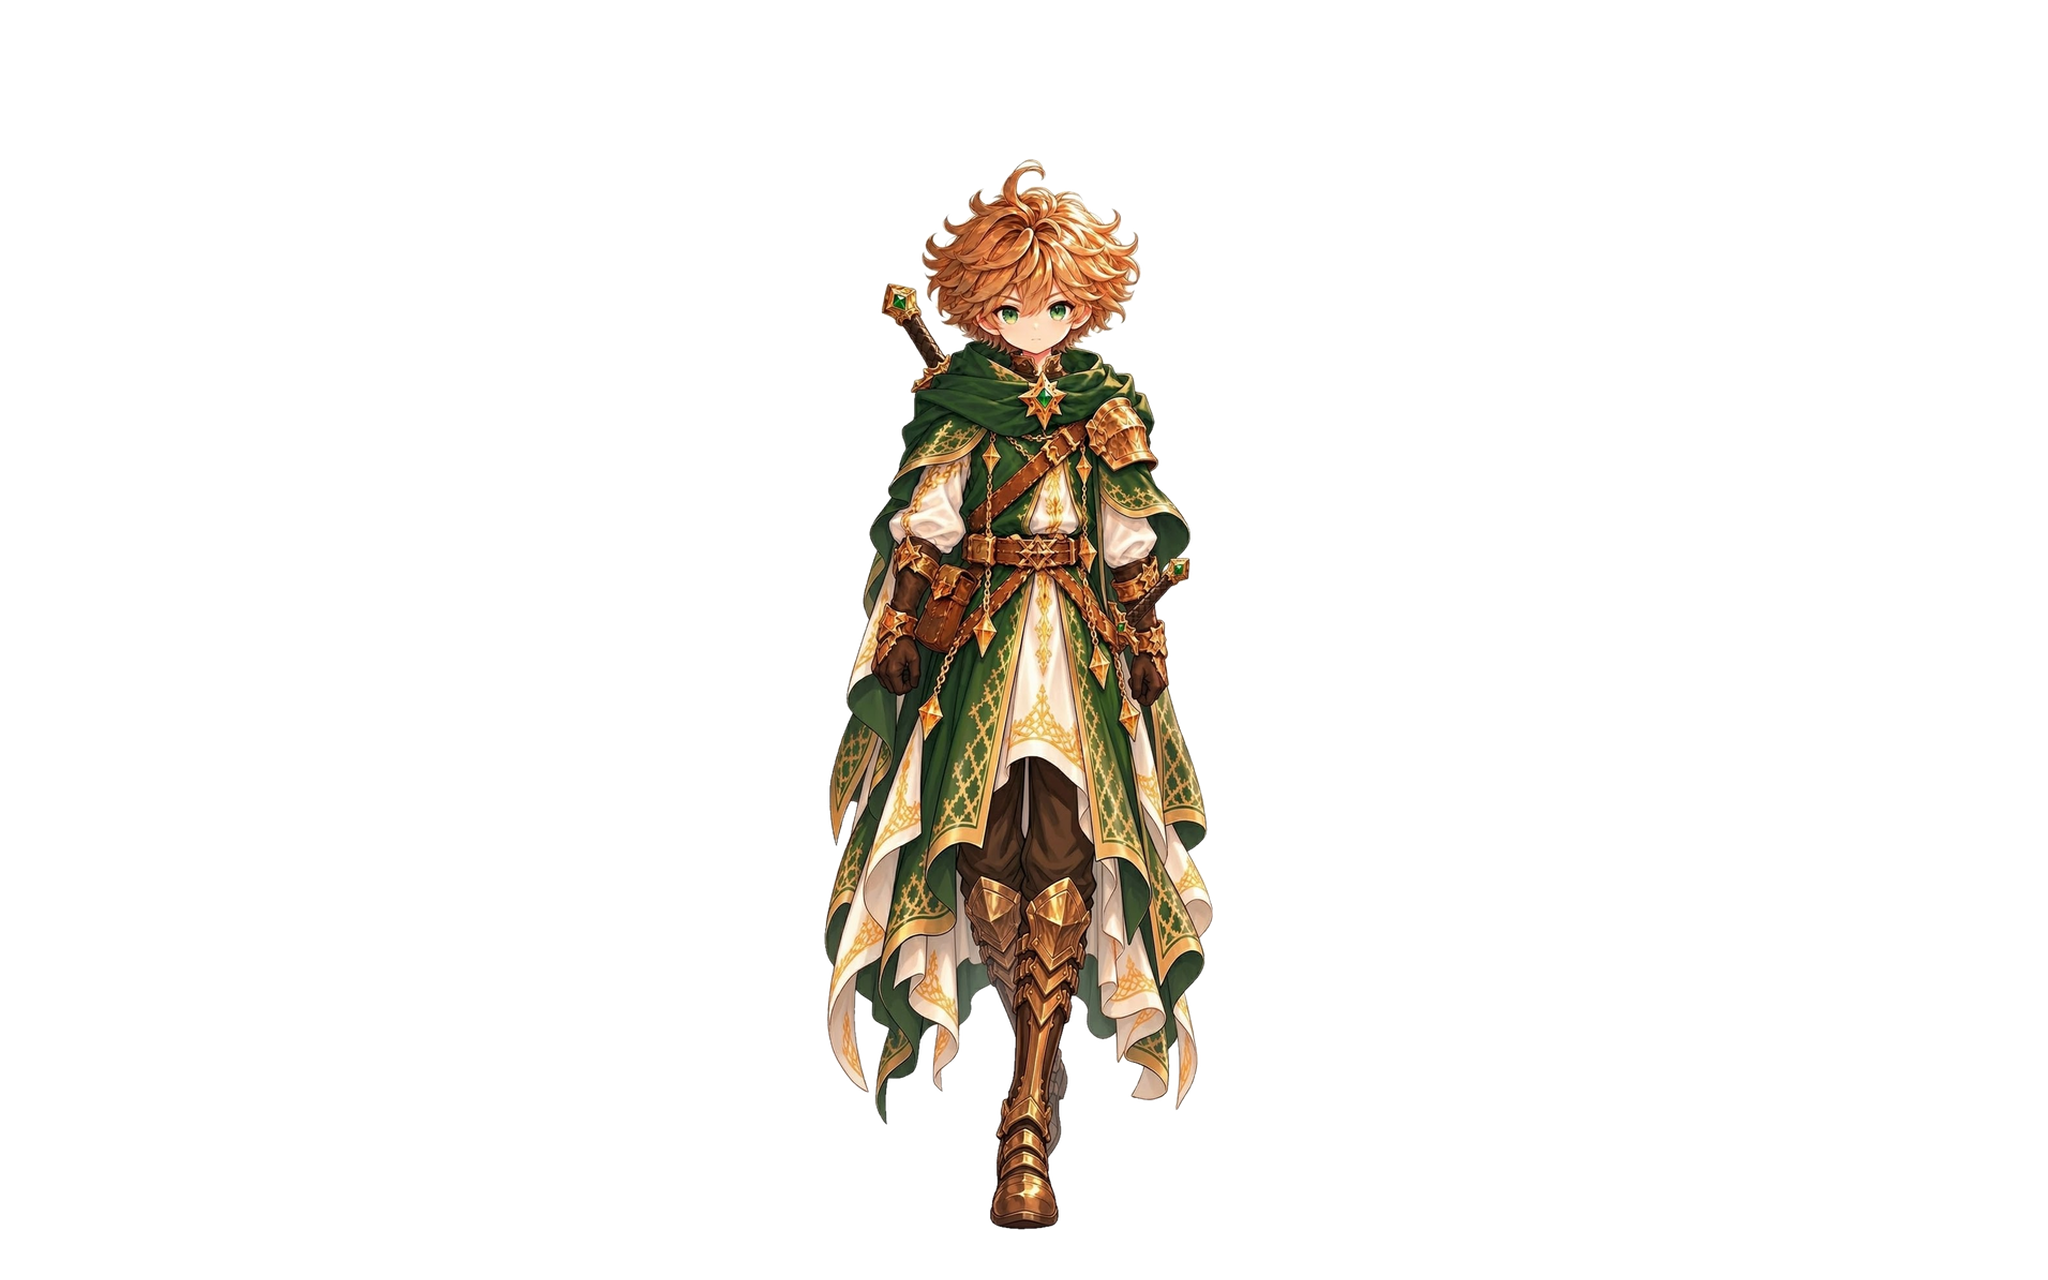
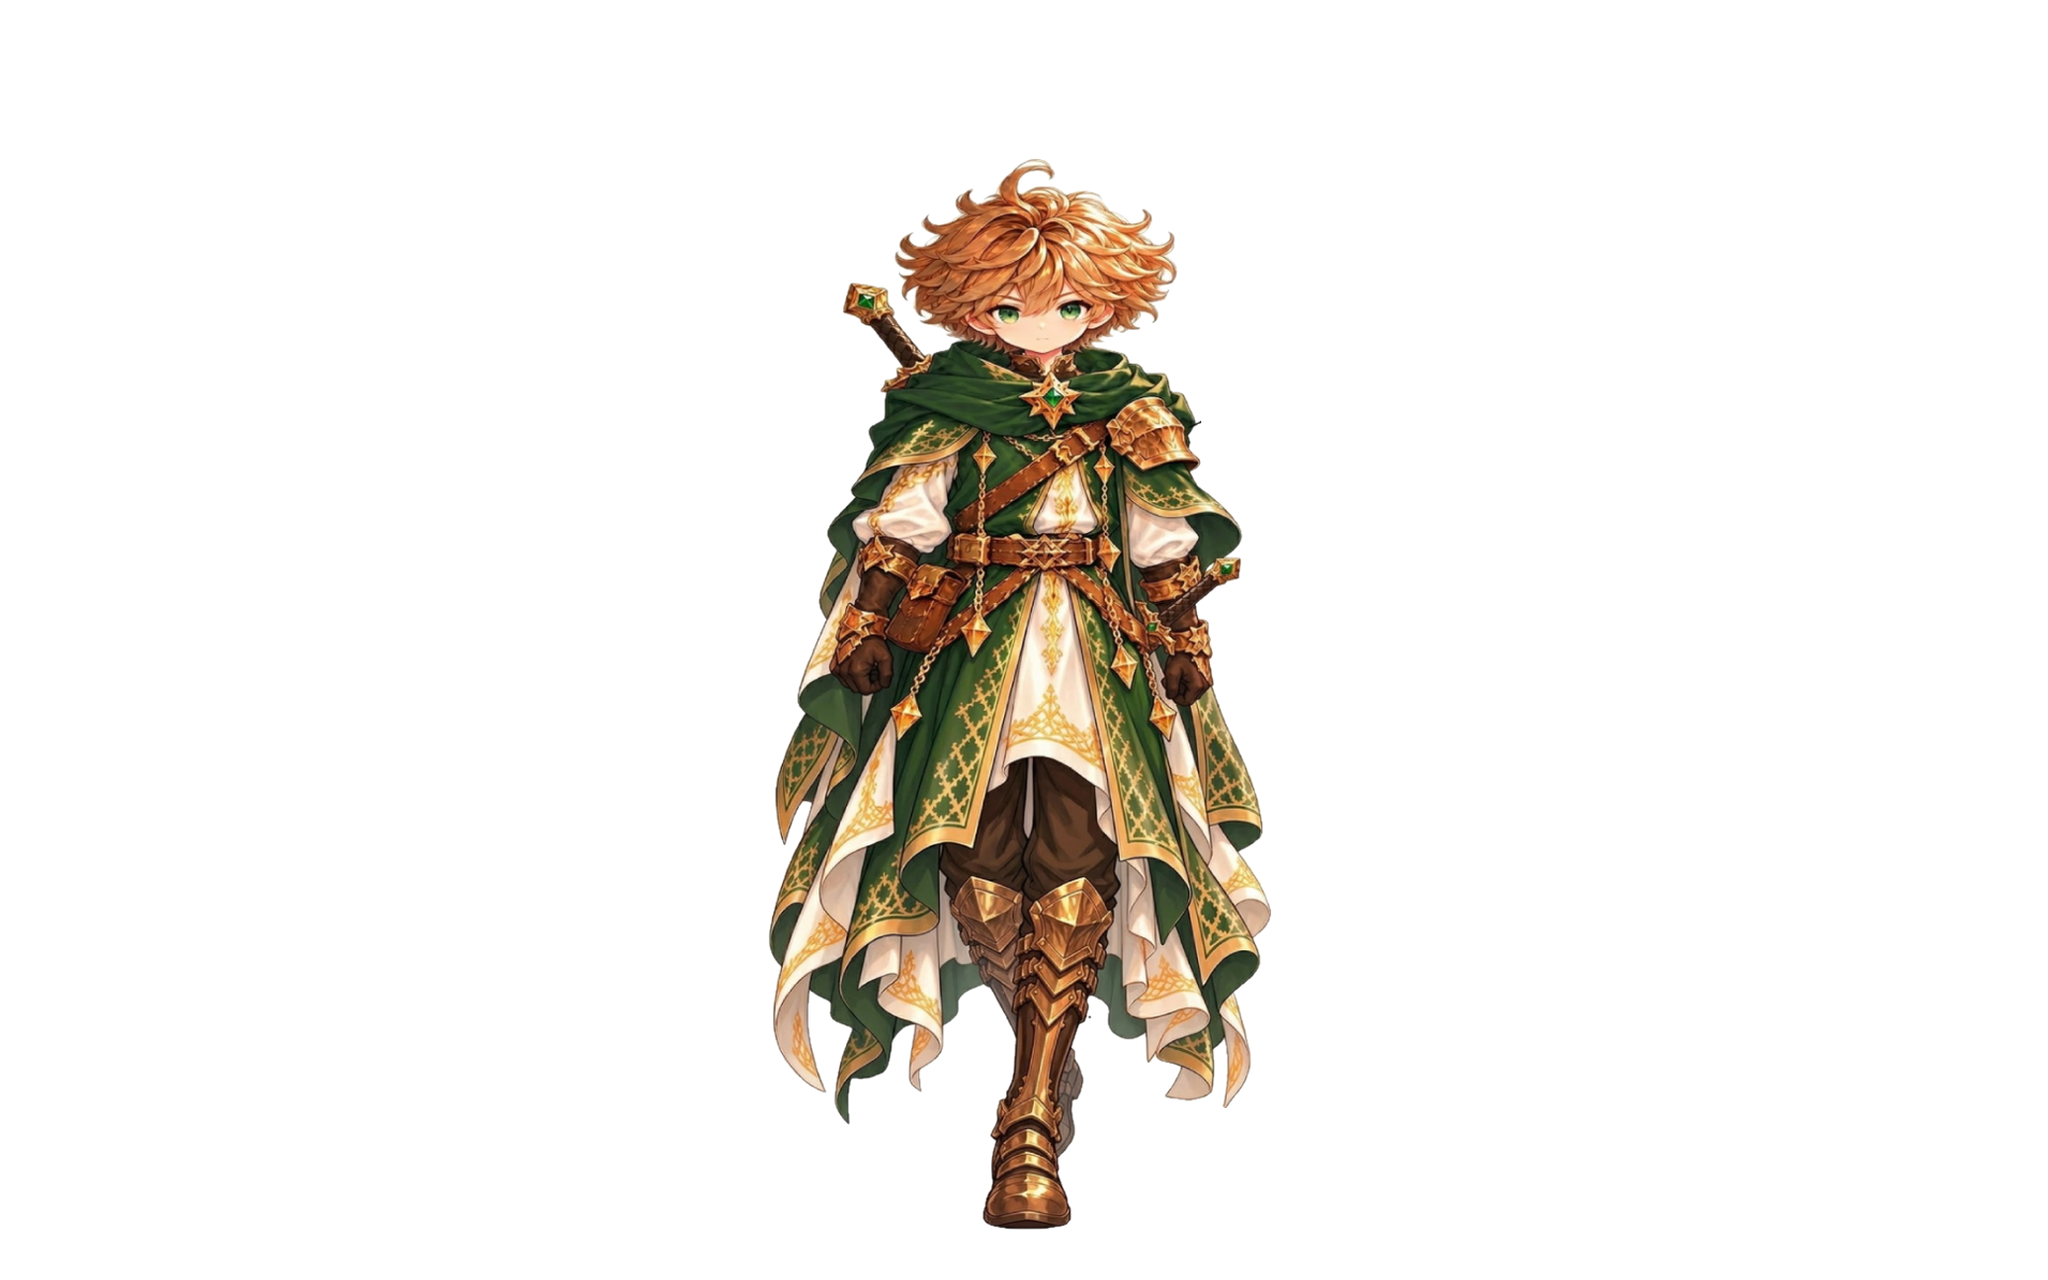
Aidan front walk: add opposite-side stride (viewer-right foot forward) + cleaned pass frame; store transparent sources
Claude-Session: https://claude.ai/code/session_01KtAepaq115Lcetj5TqkPJk

Changed region(s): [[0.375, 0.125, 0.625, 0.9688]]

diff --git a/js/field/aidan-field-assets.js b/js/field/aidan-field-assets.js
@@ -36,13 +36,13 @@
   "scale": 0.0625
  },
  "aidan_walk_down_02": {
-  "path": "img/field/characters/aidan/aidan_walk_down_02.png?v=002b5f63",
+  "path": "img/field/characters/aidan/aidan_walk_down_02.png?v=f23b8d5a",
   "width": 2048,
   "height": 1280,
   "bounds": [
-   824,
+   768,
    158,
-   389,
+   504,
    1072
   ],
   "anchor": [
@@ -52,13 +52,13 @@
   "scale": 0.0625
  },
  "aidan_walk_down_03": {
-  "path": "img/field/characters/aidan/aidan_walk_down_03.png?v=b0c6dd2d",
+  "path": "img/field/characters/aidan/aidan_walk_down_03.png?v=2f3a9f95",
   "width": 2048,
   "height": 1280,
   "bounds": [
-   646,
+   678,
    158,
-   736,
+   683,
    1072
   ],
   "anchor": [
@@ -68,13 +68,13 @@
   "scale": 0.0625
  },
  "aidan_walk_down_04": {
-  "path": "img/field/characters/aidan/aidan_walk_down_04.png?v=002b5f63",
+  "path": "img/field/characters/aidan/aidan_walk_down_04.png?v=f23b8d5a",
   "width": 2048,
   "height": 1280,
   "bounds": [
-   824,
+   768,
    158,
-   389,
+   504,
    1072
   ],
   "anchor": [

diff --git a/index.html b/index.html
@@ -1963,7 +1963,7 @@ const v54SR=startRaiderBattle;startRaiderBattle=function(){v54SR();requestAnimat
 <script src="js/field/lind-npcs.js"></script>
 <script src="js/field/lind-birds.js"></script>
 <link rel="stylesheet" href="css/aidan-field.css">
-<script src="js/field/aidan-field-assets.js?v=20261012fb"></script>
+<script src="js/field/aidan-field-assets.js?v=20261012fc"></script>
 <script src="js/field/aidan-field-actor.js"></script>
 <script src="js/field/lind-terrain-layout.js"></script>
 <script src="js/field/lind-terrain-blend.js"></script>
